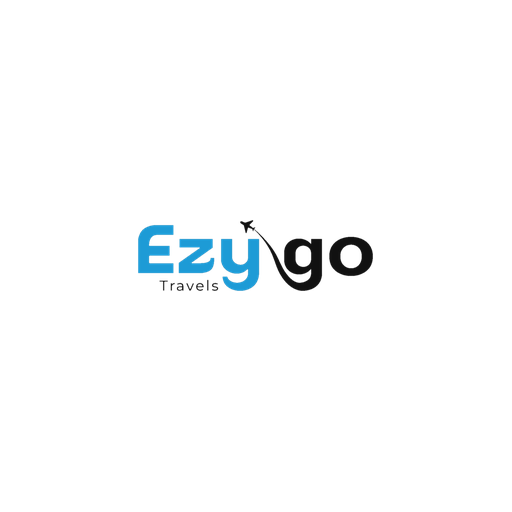
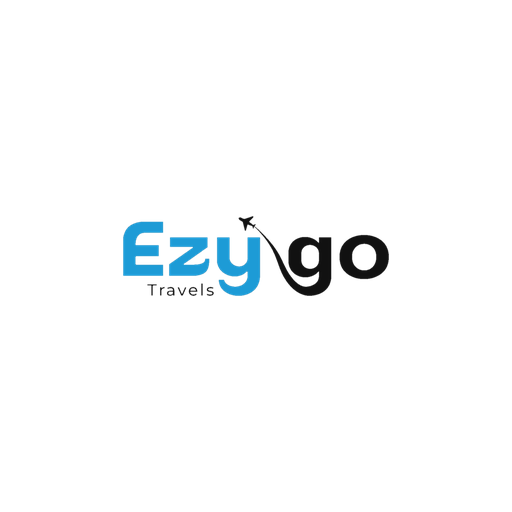
Add files via upload

Changed region(s): [[0.2188, 0.4062, 0.7812, 0.5938]]

diff --git a/admin.html b/admin.html
@@ -8,9 +8,9 @@
 :root{--bg:#f5f6f8;--card:#fff;--line:#e6e8ec;--text:#131417;--muted:#727780;--accent:#2da4e5;--shadow:0 18px 50px rgba(22,28,45,.08)}
 *{box-sizing:border-box}html,body{height:100%}body{margin:0;font-family:Inter,Arial,sans-serif;background:linear-gradient(180deg,#f7f8fa 0%,#f2f4f7 100%);color:var(--text)}button,input,textarea,select{font:inherit}button{cursor:pointer}
 .wrap{width:min(1180px,calc(100% - 28px));margin:28px auto 80px}.top{display:flex;align-items:center;justify-content:space-between;gap:12px;margin-bottom:18px}.top h1{font-size:24px;margin:0}.muted{color:var(--muted);font-size:12px}.tabs{display:flex;gap:8px;overflow:auto;padding-bottom:10px}.tab{border:1px solid var(--line);background:#fff;border-radius:999px;padding:9px 14px;white-space:nowrap}.tab.active{background:#111;color:#fff;border-color:#111}.panel{display:none}.panel.active{display:block}.card{background:#fff;border:1px solid var(--line);border-radius:20px;padding:18px;margin:12px 0;box-shadow:0 2px 10px rgba(0,0,0,.02)}.grid{display:grid;grid-template-columns:repeat(2,minmax(0,1fr));gap:12px}.full{grid-column:1/-1}.field{width:100%;border:1px solid var(--line);border-radius:13px;padding:12px 13px;background:#fff}.field:focus{outline:2px solid rgba(45,164,229,.16);border-color:#8ed3f8}textarea.field{min-height:96px;resize:vertical}.row{display:flex;gap:8px;flex-wrap:wrap;align-items:center}.btn{border:0;border-radius:12px;padding:10px 13px;background:#111;color:#fff}.btn:disabled{opacity:.6;cursor:not-allowed}.ghost{background:#fff;color:#111;border:1px solid var(--line)}.danger{background:#fff;color:#b42424;border:1px solid #efd1d1}.list{display:grid;gap:10px}.item{display:grid;grid-template-columns:64px 1fr auto;gap:12px;align-items:center;border:1px solid var(--line);border-radius:16px;padding:10px;background:#fff}.item img{width:64px;height:64px;border-radius:12px;object-fit:cover;background:#eef0f2}.item h3{font-size:14px;margin:0 0 4px}.item p{font-size:11px;color:var(--muted);margin:2px 0}.mini{display:flex;gap:6px;flex-wrap:wrap;justify-content:flex-end}.mini button{padding:7px 9px;font-size:11px}
-.login{min-height:100vh;display:grid;place-items:center;padding:24px}.loginBox{width:min(420px,100%);background:#fff;border:1px solid var(--line);border-radius:30px;padding:28px 24px;box-shadow:var(--shadow)}.logoWrap{width:190px;height:70px;background:#fff;display:grid;place-items:center;margin:0 auto 18px}.logoWrap img{width:165px;height:auto;object-fit:contain}.loginBox h1{margin:0;text-align:center;font-size:28px;letter-spacing:-.03em}.loginBox p{color:var(--muted);font-size:13px;line-height:1.65;text-align:center;margin:10px 0 0}.loginLabel{display:block;font-size:12px;font-weight:700;letter-spacing:.02em;margin:20px 0 8px}.loginBox .field{margin:0 0 12px;height:50px;font-size:15px}.loginBtn{width:100%;height:50px;border-radius:14px;font-weight:700;background:linear-gradient(180deg,#131417 0%,#25282d 100%)}.status{font-size:12px;color:var(--muted);margin-top:10px;min-height:18px;text-align:center}.status.error{color:#b42318}.status.success{color:#0d7f49}.helpNote{margin-top:16px;padding:12px 14px;border-radius:14px;background:#f8fafc;border:1px solid #edf0f3;color:#6f7680;font-size:12px;line-height:1.55;text-align:center}
+.login{min-height:100vh;display:grid;place-items:center;padding:24px}.loginBox{width:min(420px,100%);background:#fff;border:1px solid var(--line);border-radius:30px;padding:28px 24px;box-shadow:var(--shadow)}.logoWrap{width:205px;height:76px;background:#fff;display:grid;place-items:center;margin:0 auto 18px}.logoWrap img{width:180px;height:auto;object-fit:contain}.loginBox h1{margin:0;text-align:center;font-size:28px;letter-spacing:-.03em}.loginBox p{color:var(--muted);font-size:13px;line-height:1.65;text-align:center;margin:10px 0 0}.loginLabel{display:block;font-size:12px;font-weight:700;letter-spacing:.02em;margin:20px 0 8px}.loginBox .field{margin:0 0 12px;height:50px;font-size:15px}.loginBtn{width:100%;height:50px;border-radius:14px;font-weight:700;background:linear-gradient(180deg,#131417 0%,#25282d 100%)}.status{font-size:12px;color:var(--muted);margin-top:10px;min-height:18px;text-align:center}.status.error{color:#b42318}.status.success{color:#0d7f49}.helpNote{margin-top:16px;padding:12px 14px;border-radius:14px;background:#f8fafc;border:1px solid #edf0f3;color:#6f7680;font-size:12px;line-height:1.55;text-align:center}
 .feedback{border:1px solid var(--line);border-radius:16px;padding:14px}.feedback strong{display:block}.feedback small{color:var(--muted)}.feedback p{white-space:pre-wrap;line-height:1.55}.orderItem{display:flex;align-items:center;justify-content:space-between;gap:12px;border:1px solid var(--line);border-radius:14px;padding:11px 12px}.badge{font-size:10px;border:1px solid var(--line);padding:4px 7px;border-radius:999px;color:var(--muted)}
-@media(max-width:700px){.grid{grid-template-columns:1fr}.full{grid-column:auto}.item{grid-template-columns:52px 1fr}.item img{width:52px;height:52px}.mini{grid-column:1/-1;justify-content:flex-start}.wrap{margin-top:16px}.top{align-items:flex-start;flex-direction:column}.loginBox{padding:24px 18px;border-radius:26px}.logoWrap{width:180px;height:66px}.logoWrap img{width:155px;height:auto}.loginBox h1{font-size:26px}}
+@media(max-width:700px){.grid{grid-template-columns:1fr}.full{grid-column:auto}.item{grid-template-columns:52px 1fr}.item img{width:52px;height:52px}.mini{grid-column:1/-1;justify-content:flex-start}.wrap{margin-top:16px}.top{align-items:flex-start;flex-direction:column}.loginBox{padding:24px 18px;border-radius:26px}.logoWrap{width:195px;height:72px}.logoWrap img{width:172px;height:auto}.loginBox h1{font-size:26px}}
 </style>
 </head>
 <body>

diff --git a/admin.js b/admin.js
@@ -17,6 +17,18 @@ function setLoginLoading(loading){
   if(btn){ btn.disabled=loading; btn.textContent=loading?'Checking…':'Continue'; }
   if(input) input.disabled=loading;
 }
+function openAdminView(){
+  const loginView=$('#loginView'), adminView=$('#adminView');
+  if(loginView){ loginView.hidden=true; loginView.style.display='none'; }
+  if(adminView){ adminView.hidden=false; adminView.style.display='block'; }
+  setLoginStatus('');
+  window.scrollTo({top:0,left:0,behavior:'auto'});
+}
+function openLoginView(){
+  const loginView=$('#loginView'), adminView=$('#adminView');
+  if(adminView){ adminView.hidden=true; adminView.style.display='none'; }
+  if(loginView){ loginView.hidden=false; loginView.style.display='grid'; }
+}
 async function call(action,payload={}){
   const controller=new AbortController();
   const timer=setTimeout(()=>controller.abort(), 12000);
@@ -35,7 +47,7 @@ async function call(action,payload={}){
 async function fileData(file){if(!file)return null;const img=await new Promise((res,rej)=>{const i=new Image;i.onload=()=>res(i);i.onerror=rej;i.src=URL.createObjectURL(file)});let w=img.width,h=img.height,max=1600;if(Math.max(w,h)>max){const s=max/Math.max(w,h);w=Math.round(w*s);h=Math.round(h*s)}const c=document.createElement('canvas');c.width=w;c.height=h;c.getContext('2d').drawImage(img,0,0,w,h);return c.toDataURL('image/jpeg',.84)}
 async function upload(file,folder){if(!file)return'';const dataUrl=await fileData(file);return (await call('upload',{folder,name:file.name,dataUrl})).path}
 async function uploadMany(files,folder){const out=[];for(const f of files)out.push(await upload(f,folder));return out}
-async function showAdmin(){ $('#loginView').hidden=true; $('#adminView').hidden=false; await refresh(); }
+async function showAdmin(){ await refresh(); openAdminView(); }
 async function login(){
   const entered=$('#loginId').value.trim();
   if(!entered){ setLoginStatus('Please enter the Admin Login ID.','error'); return; }
@@ -45,8 +57,7 @@ async function login(){
     await call('login');
     await refresh();
     sessionStorage.setItem('ezygo_admin_id',adminId);
-    $('#loginView').hidden=true; $('#adminView').hidden=false;
-    setLoginStatus('Connected successfully.','success');
+    openAdminView();
   }catch(e){
     sessionStorage.removeItem('ezygo_admin_id');
     adminId='';
@@ -56,7 +67,7 @@ async function login(){
 async function tryAutoLogin(){
   if(!adminId) return;
   try{ await showAdmin(); }
-  catch(e){ sessionStorage.removeItem('ezygo_admin_id'); adminId=''; $('#loginView').hidden=false; $('#adminView').hidden=true; setLoginStatus('Please log in again. '+(e.message||''),'error'); }
+  catch(e){ sessionStorage.removeItem('ezygo_admin_id'); adminId=''; openLoginView(); setLoginStatus('Please log in again. '+(e.message||''),'error'); }
 }
 async function refresh(){const j=await call('list');data=j.data;renderAll()}
 function renderAll(){renderGroups();renderVisas();renderPackages();renderGallery();renderFeedback()}

diff --git a/service-worker.js b/service-worker.js
@@ -1,4 +1,4 @@
-const CACHE='ezygo-v3';
+const CACHE='ezygo-v4';
 const CORE=['/','/index.html','/config.js','/app.js','/manifest.webmanifest','/favicon.ico','/icon-192.png','/icon-512.png','/logo.png'];
 
 self.addEventListener('install',e=>{
